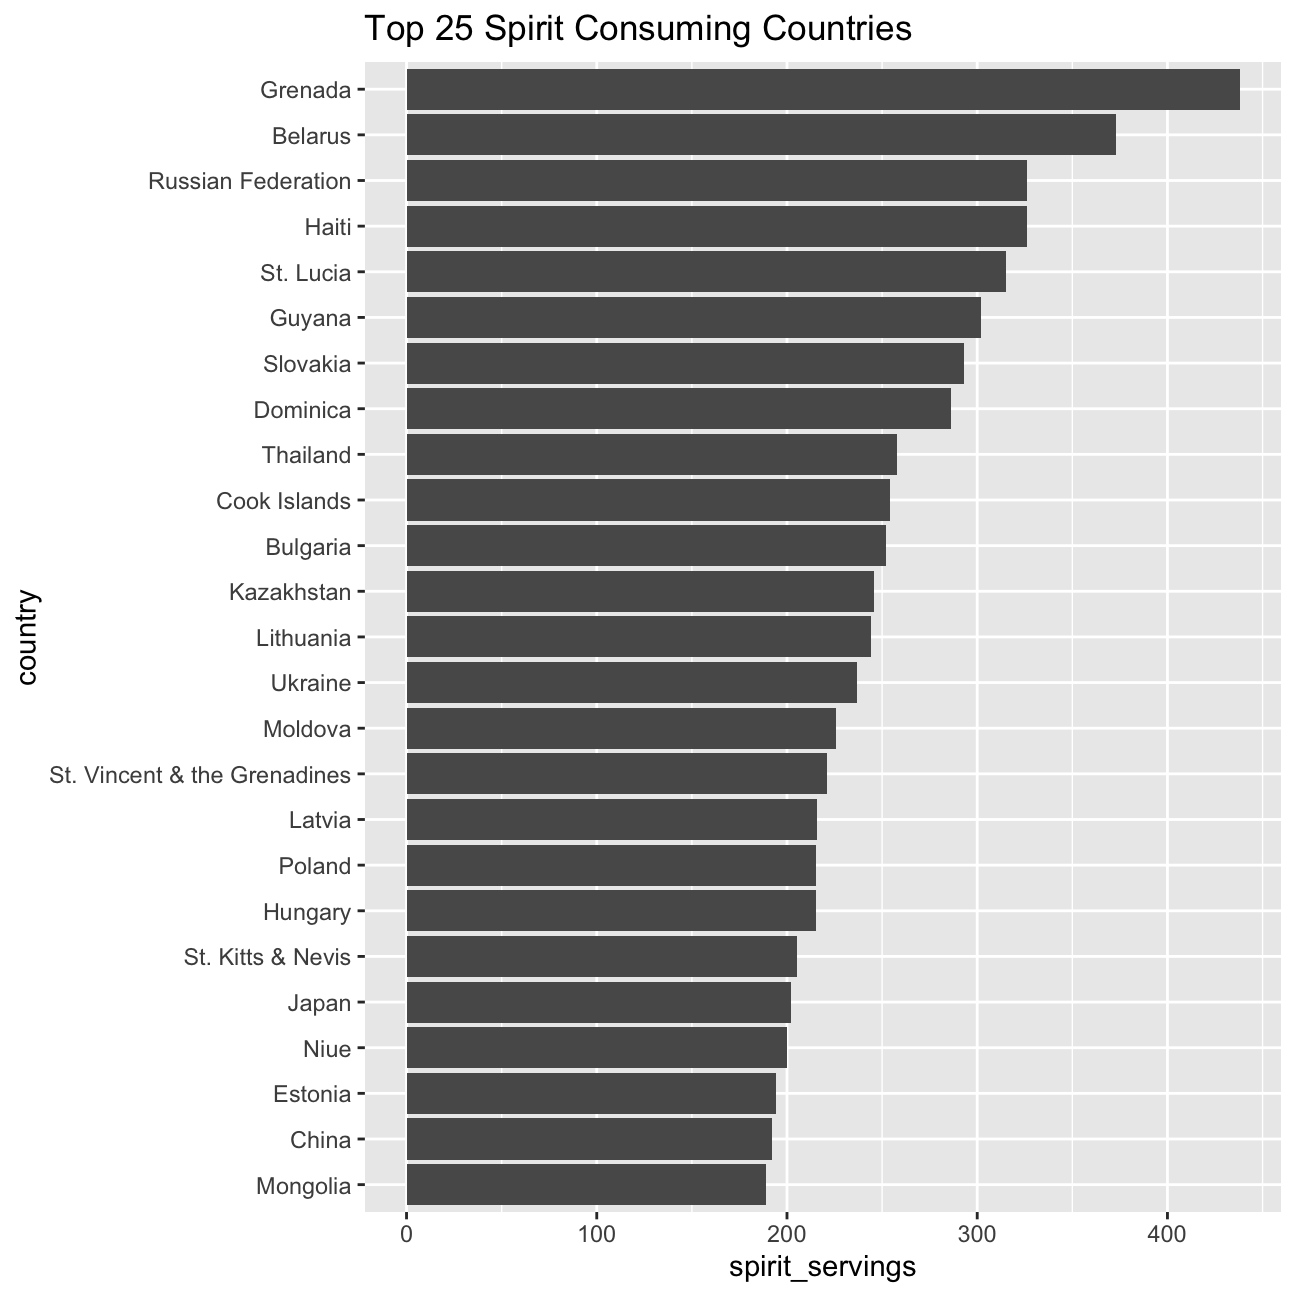
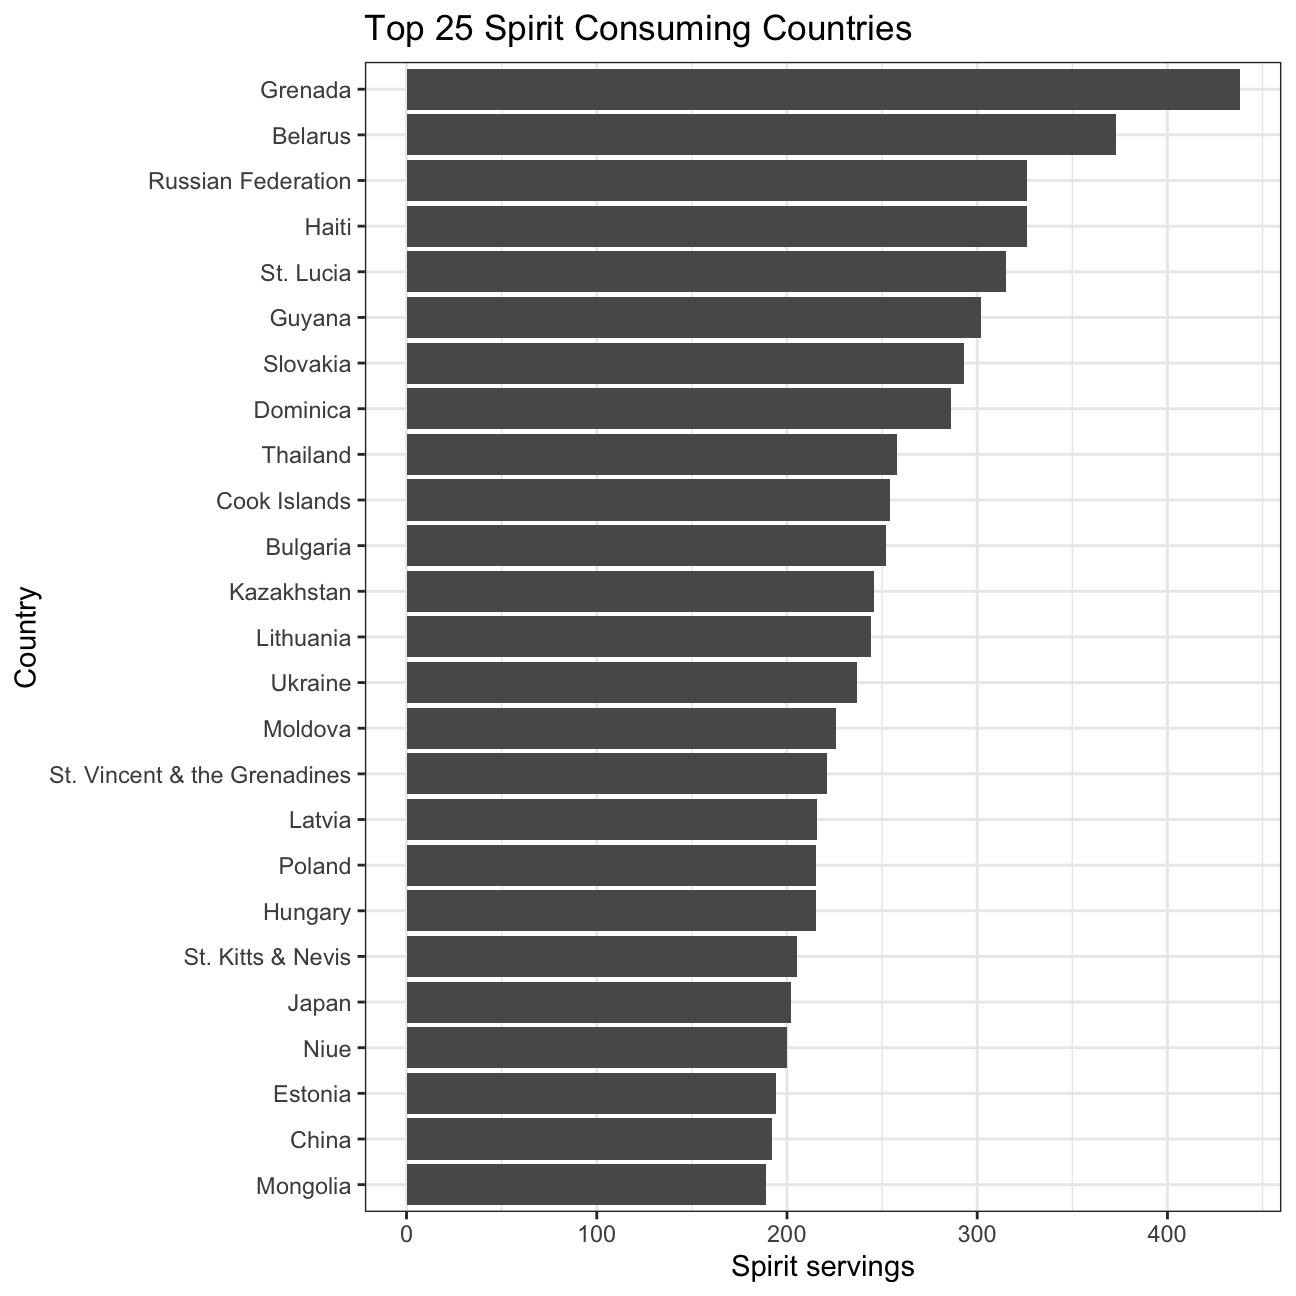
changed aesthetic on movies and alcohol

diff --git a/content/blog/2020-09-17-movie/movie_analysis.html b/content/blog/2020-09-17-movie/movie_analysis.html
@@ -1,7 +1,7 @@
 ---
 title: "IMDB Dataset - Movies analysis"
 author: "Vera Meanti"
-date: "2021-09-17"
+date: "2021-09-19"
 featureImage: images/allpost/cinema.jpg
 postImage: images/single-blog/cinema.jpg
 output:
@@ -19,7 +19,8 @@ output:
 
 <div id="analysis-of-movies--imdb-dataset" class="section level1">
 <h1>Analysis of movies- IMDB dataset</h1>
-<p>We will look at a subset sample of movies, taken from the <a href="https://www.kaggle.com/carolzhangdc/imdb-5000-movie-dataset">Kaggle IMDB 5000 movie dataset</a></p>
+<div id="for-this-analysis-we-will-look-at-a-subset-sample-of-movies-taken-from-the-kaggle-imdb-5000-movie-dataset" class="section level4">
+<h4>For this analysis we will look at a subset sample of movies, taken from the <a href="https://www.kaggle.com/carolzhangdc/imdb-5000-movie-dataset">Kaggle IMDB 5000 movie dataset</a></h4>
 <pre class="r"><code>movies &lt;- read_csv(here::here(&quot;data-csv&quot;, &quot;movies.csv&quot;))
 glimpse(movies)</code></pre>
 <pre><code>## Rows: 2,961
@@ -44,8 +45,9 @@ glimpse(movies)</code></pre>
 <li><code>reviews</code>: the number of reviews for that movie</li>
 <li><code>rating</code>: IMDB average rating</li>
 </ul>
-<div id="use-your-data-import-inspection-and-cleaning-skills-to-answer-the-following" class="section level2">
-<h2>Use your data import, inspection, and cleaning skills to answer the following:</h2>
+</div>
+<div id="we-imported-inspected-and-cleaned-the-data-to-answer-the-following" class="section level4">
+<h4>We imported, inspected, and cleaned the data to answer the following:</h4>
 <ul>
 <li>Are there any missing values (NAs)? Are all entries distinct or are there duplicate entries?</li>
 </ul>
@@ -395,21 +397,33 @@ movies %&gt;%
 <pre class="r"><code># Making the overall histogram
 ggplot(movies,aes(x=rating)) +
   geom_histogram() +
-  labs(title = &#39;Overall Ratings Distribution&#39;)</code></pre>
-<p><img src="/blog/2020-09-17-movie/movie_analysis_files/figure-html/unnamed-chunk-5-1.png" width="648" style="display: block; margin: auto;" /></p>
+  labs(title = &#39;Overall Ratings Distribution&#39;, 
+       x= &quot;Rating&quot;, 
+       y=&quot;Number of ratings&quot;) + 
+  theme_wsj()+ 
+  scale_colour_wsj(&quot;colors6&quot;)</code></pre>
+<p><img src="/blog/2020-09-17-movie/movie_analysis_files/figure-html/rating_by_genres-1.png" width="648" style="display: block; margin: auto;" /></p>
 <pre class="r"><code># Making histograms for each genre (free scale)
 ggplot(movies,aes(x=rating)) +
   geom_histogram() +
   facet_wrap(~genre,scales = &#39;free&#39;) +
-  labs(title = &#39;Ratings Distribution by Genre (free scale)&#39;)</code></pre>
-<p><img src="/blog/2020-09-17-movie/movie_analysis_files/figure-html/unnamed-chunk-5-2.png" width="648" style="display: block; margin: auto;" /></p>
+  labs(title = &#39;Ratings Distribution by Genre (free scale)&#39;,
+       x= &quot;Rating&quot;, 
+       y=&quot;Number of ratings&quot;) +
+  theme_wsj()+ 
+  scale_colour_wsj(&quot;colors6&quot;)</code></pre>
+<p><img src="/blog/2020-09-17-movie/movie_analysis_files/figure-html/rating_by_genres-2.png" width="648" style="display: block; margin: auto;" /></p>
 <pre class="r"><code># Making histograms for each genre (uniform scale)
 ggplot(movies,aes(x=rating)) +
   geom_histogram() +
   facet_wrap(~genre) +
-  labs(title = &#39;Ratings Distribution by Genre (uniform scale)&#39;) +
-  NULL</code></pre>
-<p><img src="/blog/2020-09-17-movie/movie_analysis_files/figure-html/unnamed-chunk-5-3.png" width="648" style="display: block; margin: auto;" /></p>
+  labs(title = &#39;Ratings Distribution by Genre (uniform scale)&#39;,
+       x= &quot;Rating&quot;, 
+       y=&quot;Number of ratings&quot;) +
+  theme_tufte()</code></pre>
+<p><img src="/blog/2020-09-17-movie/movie_analysis_files/figure-html/rating_by_genres-3.png" width="648" style="display: block; margin: auto;" /></p>
+<pre class="r"><code>  NULL</code></pre>
+<pre><code>## NULL</code></pre>
 </div>
 <div id="use-ggplot-to-answer-the-following" class="section level2">
 <h2>Use <code>ggplot</code> to answer the following</h2>
@@ -420,10 +434,14 @@ ggplot(movies,aes(x=rating)) +
 ggplot(movies,aes(x = cast_facebook_likes, y = gross)) +
   geom_point() +
   geom_smooth() +
-  labs(title = &#39;Cast_facebook_likes vs. Gross&#39;) +
-  NULL</code></pre>
-<p><img src="/blog/2020-09-17-movie/movie_analysis_files/figure-html/gross_on_fblikes-1.png" width="648" style="display: block; margin: auto;" />
-Cast_facebook_likes is used as the independent variable and placed on x-axis, whereas gross is to be predicted and placed on y-axis as dependent variables. We can see that the line of best fit suggests that there is a positive correlation between the two variables when the facebook likes are low. However, this relationship is very <strong>insignificant</strong> and it is inverted after facebook likes exceeds around 300,000, potentially due to presence of outliers with high facebook likes but low gross. Overall facebook likes is not a great predictor for gross.</p>
+  labs(title = &#39;Cast Facebook Likes vs. Average Gross Earnings&#39;, 
+       x= &quot;Cast Facebook Likes&quot;, 
+       y= &quot;Average Gross Earnings&quot;) +
+  theme_tufte()</code></pre>
+<p><img src="/blog/2020-09-17-movie/movie_analysis_files/figure-html/gross_on_fblikes-1.png" width="648" style="display: block; margin: auto;" /></p>
+<pre class="r"><code>  NULL</code></pre>
+<pre><code>## NULL</code></pre>
+<p>Cast_facebook_likes is used as the independent variable and placed on x-axis, whereas gross is to be predicted and placed on y-axis as dependent variables. We can see that the line of best fit suggests that there is a positive correlation between the two variables when the facebook likes are low. However, this relationship is very <strong>insignificant</strong> and it is inverted after facebook likes exceeds around 300,000, potentially due to presence of outliers with high facebook likes but low gross. Overall facebook likes is not a great predictor for gross.</p>
 <ul>
 <li>Examine the relationship between <code>gross</code> and <code>budget</code>. Produce a scatterplot and write one sentence discussing whether budget is likely to be a good predictor of how much money a movie will make at the box office.</li>
 </ul>
@@ -431,10 +449,14 @@ Cast_facebook_likes is used as the independent variable and placed on x-axis, wh
 ggplot(movies,aes(x = budget, y = gross)) +
   geom_point() +
   geom_smooth() +
-  labs(title = &#39;Budget vs. Gross&#39;) +
-  NULL</code></pre>
-<p><img src="/blog/2020-09-17-movie/movie_analysis_files/figure-html/gross_on_budget-1.png" width="648" style="display: block; margin: auto;" />
-We observe a <strong>relatively strong</strong> positive correlation between the budget and gross of movies. Budget is not the perfect predictor but can predict the gross to a degree.</p>
+  labs(title = &#39;Budget vs. Average Gross Earnings&#39;,
+       x= &quot;Budget&quot;,
+       y= &quot; Average Gross Earnings&quot;) +
+   theme_tufte()</code></pre>
+<p><img src="/blog/2020-09-17-movie/movie_analysis_files/figure-html/gross_on_budget-1.png" width="648" style="display: block; margin: auto;" /></p>
+<pre class="r"><code>  NULL</code></pre>
+<pre><code>## NULL</code></pre>
+<p>We observe a <strong>relatively strong</strong> positive correlation between the budget and gross of movies. Budget is not the perfect predictor but can predict the gross to a degree.</p>
 <ul>
 <li>Examine the relationship between <code>gross</code> and <code>rating</code>. Produce a scatterplot, faceted by <code>genre</code> and discuss whether IMDB ratings are likely to be a good predictor of how much money a movie will make at the box office. Is there anything strange in this dataset?</li>
 </ul>
@@ -443,9 +465,13 @@ ggplot(movies,aes(x = rating, y = gross)) +
   geom_point() +
   geom_smooth() +
   facet_wrap(~genre) +
-  labs(title = &#39;Ratings vs. Gross by Genre&#39;) +
-  NULL</code></pre>
-<p><img src="/blog/2020-09-17-movie/movie_analysis_files/figure-html/gross_on_rating-1.png" width="648" style="display: block; margin: auto;" />
-We observe a decent level of positive correlation between rating and gross for most genres with sufficient data points. Thus, rating is a decent predictor to predict the gross of movies overall. However, there are quite a number of genres with insufficient data points and there is one strange thing: the documentary genre shows a negative relationship between rating and gross.</p>
+  labs(title = &#39;Ratings vs. Gross by Genre&#39;,
+       x=&quot;Ratings&quot;,
+       y=&quot;Average Gross Earnings&quot;) +
+  theme_tufte()</code></pre>
+<p><img src="/blog/2020-09-17-movie/movie_analysis_files/figure-html/gross_on_rating-1.png" width="648" style="display: block; margin: auto;" /></p>
+<pre class="r"><code>  NULL</code></pre>
+<pre><code>## NULL</code></pre>
+<p>We observe a decent level of positive correlation between rating and gross for most genres with sufficient data points. Thus, rating is a decent predictor to predict the gross of movies overall. However, there are quite a number of genres with insufficient data points and there is one strange thing: the documentary genre shows a negative relationship between rating and gross.</p>
 </div>
 </div>

diff --git a/content/blog/2020-09-17-alcohol/alcohol_analysis.html b/content/blog/2020-09-17-alcohol/alcohol_analysis.html
@@ -1,7 +1,7 @@
 ---
 title: "Alcohol consumption analysis"
 author: "Vera Meanti"
-date: "2021-09-17"
+date: "2021-09-19"
 featureImage: images/allpost/alcohol.jpg
 postImage: images/single-blog/alcohol.jpg
 output:
@@ -19,6 +19,8 @@ output:
 
 <div id="where-do-people-drink-the-most-beer-wine-and-spirits" class="section level1">
 <h1>Where Do People Drink The Most Beer, Wine And Spirits?</h1>
+<div id="for-this-analysis-we-looked-at-the-alcohol-consumption-around-the-world" class="section level4">
+<h4>For this analysis, we looked at the alcohol consumption around the world</h4>
 <pre class="r"><code>library(fivethirtyeight)
 data(drinks)</code></pre>
 <p>What are the variable types? Any missing values we should worry about?</p>
@@ -179,15 +181,23 @@ glimpse(drinks)</code></pre>
   slice_max(order_by = beer_servings, n=25) %&gt;% 
   ggplot(aes(y=reorder(country,beer_servings),x=beer_servings)) +
   geom_col() +
-  labs(title = &#39;Top 25 Beer Consuming Countries&#39;, y = &#39;country&#39;) +
-  NULL</code></pre>
+  labs(title = &#39;Top 25 Beer Consuming Countries&#39;,
+       y = &#39;Country&#39;,
+       x= &quot;Beer Servings&quot;
+       ) +
+  theme_bw()</code></pre>
 <p><img src="/blog/2020-09-17-alcohol/alcohol_analysis_files/figure-html/beer_plot-1.png" width="648" style="display: block; margin: auto;" /></p>
+<pre class="r"><code>  NULL</code></pre>
+<pre><code>## NULL</code></pre>
 <p>Make a plot that shows the top 25 wine consuming countries</p>
 <pre class="r"><code>drinks %&gt;%
   slice_max(order_by = wine_servings, n=25) %&gt;% 
   ggplot(aes(y=reorder(country,wine_servings),x=wine_servings)) +
   geom_col() +
-  labs(title = &#39;Top 25 Wine Consuming Countries&#39;, y = &#39;country&#39;) +
+  labs(title = &#39;Top 25 Wine Consuming Countries&#39;, 
+       y = &#39;Country&#39;, 
+       x=&quot;Wine Servings&quot;) +
+  theme_bw()+
   NULL</code></pre>
 <p><img src="/blog/2020-09-17-alcohol/alcohol_analysis_files/figure-html/wine_plot-1.png" width="648" style="display: block; margin: auto;" /></p>
 <p>Finally, make a plot that shows the top 25 spirit consuming countries</p>
@@ -195,9 +205,13 @@ glimpse(drinks)</code></pre>
   slice_max(order_by = spirit_servings, n=25) %&gt;%
   ggplot(aes(y=reorder(country,spirit_servings),x=spirit_servings)) +
   geom_col() +
-  labs(title = &#39;Top 25 Spirit Consuming Countries&#39;, y = &#39;country&#39;) +
+  labs(title = &#39;Top 25 Spirit Consuming Countries&#39;, 
+       y = &#39;Country&#39;,
+       x= &quot;Spirit servings&quot;) +
+  theme_bw()+
   NULL</code></pre>
 <p><img src="/blog/2020-09-17-alcohol/alcohol_analysis_files/figure-html/spirit_plot-1.png" width="648" style="display: block; margin: auto;" /></p>
 <p>What can you infer from these plots? Don’t just explain what’s in the graph, but speculate or tell a short story (1-2 paragraphs max).</p>
 <p>Across all three types of drinks, beer was consumed the most by the top 25 countries compared to spirits and wine. This can be potentially due to the difference in alcohol level in the drinks and price: wine is the most expensive so people drink less even for those who like it a lot, and people are biologically capable of drinking more beer than spirits in general. Another interesting point to note is that the highest consumption for spirit peaks at over 400 servings in Grenada, whereas this number is only around 350 for both wine and beer. Furthermore, the choice of drinks seems to be highly correlated with geography of the countries: most wine lovers are located in Europe, countries that drink beer a lot are mostly situated in Africa, whereas spirit is the favourite for the Caribbean countries. Both weather conditions and cultural traditions can be contributing to these behaviours. Last but not least, we find that most countries are only ranked high in only one, if not none, of the three rankings: likely because that people can only drink so much alcohol everyday.</p>
+</div>
 </div>
